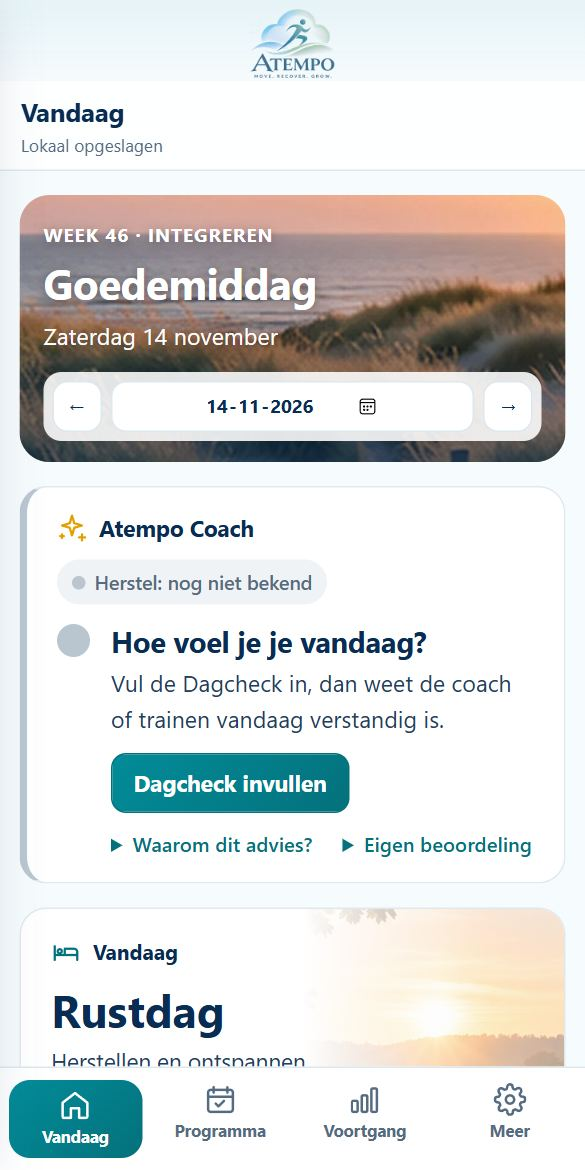
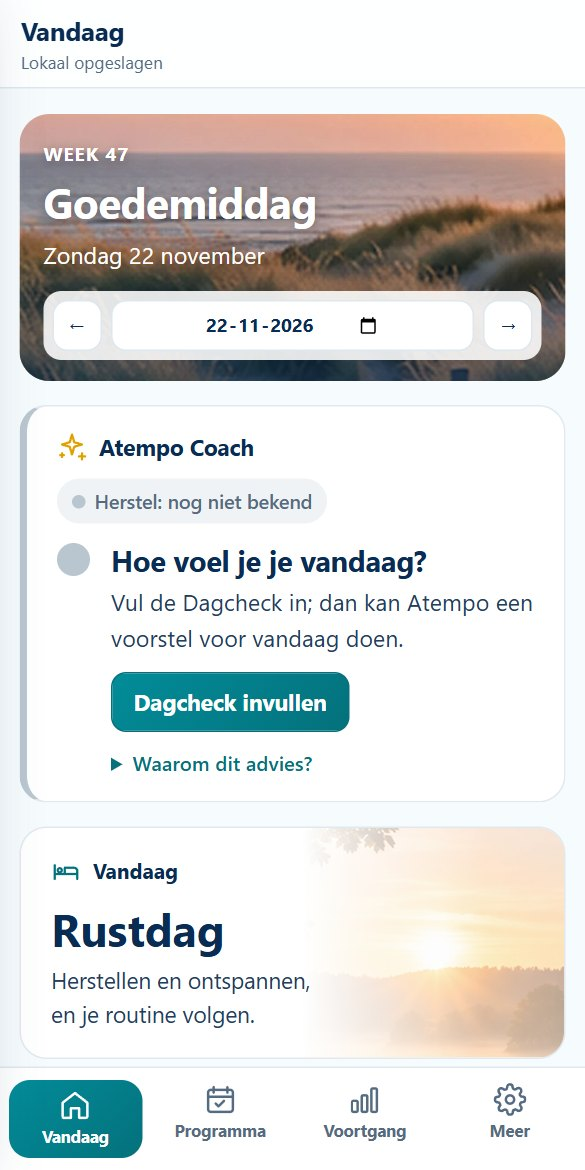
Atempo-link naar atempo.web.app en nieuwe afbeelding

diff --git a/index.html b/index.html
@@ -403,12 +403,12 @@ footer p{margin:0}
         <article class="feat atempo reveal">
           <div class="feat-text">
             <ul class="tags"><li class="tag">{{ t.atempo.label | escape }}</li><li class="tag status">{{ t.atempo.status | escape }}</li></ul>
-            <h3><a href="trainingsplan/">{{ t.atempo.naam | escape }}</a></h3>
+            <h3><a href="https://atempo.web.app/">{{ t.atempo.naam | escape }}</a></h3>
             <p class="slogan">{{ t.atempo.slogan | escape }}</p>
             <p class="desc">{{ t.atempo.tekst | escape }}</p>
             <span class="cta" aria-hidden="true">{{ t.atempo.knop | escape }} <span class="arr">→</span></span>
           </div>
-          <figure class="phone"><img src="img/atempo.jpg" width="585" height="1170" loading="lazy" decoding="async" alt="Schermafbeelding van Atempo op een telefoon: het scherm Vandaag met de Atempo Coach."></figure>
+          <figure class="phone"><img src="img/atempo.jpg?v=2" width="585" height="1170" loading="lazy" decoding="async" alt="Schermafbeelding van Atempo op een telefoon: het scherm Vandaag met de Atempo Coach."></figure>
         </article>
 
         <article class="feat restavia reveal">
